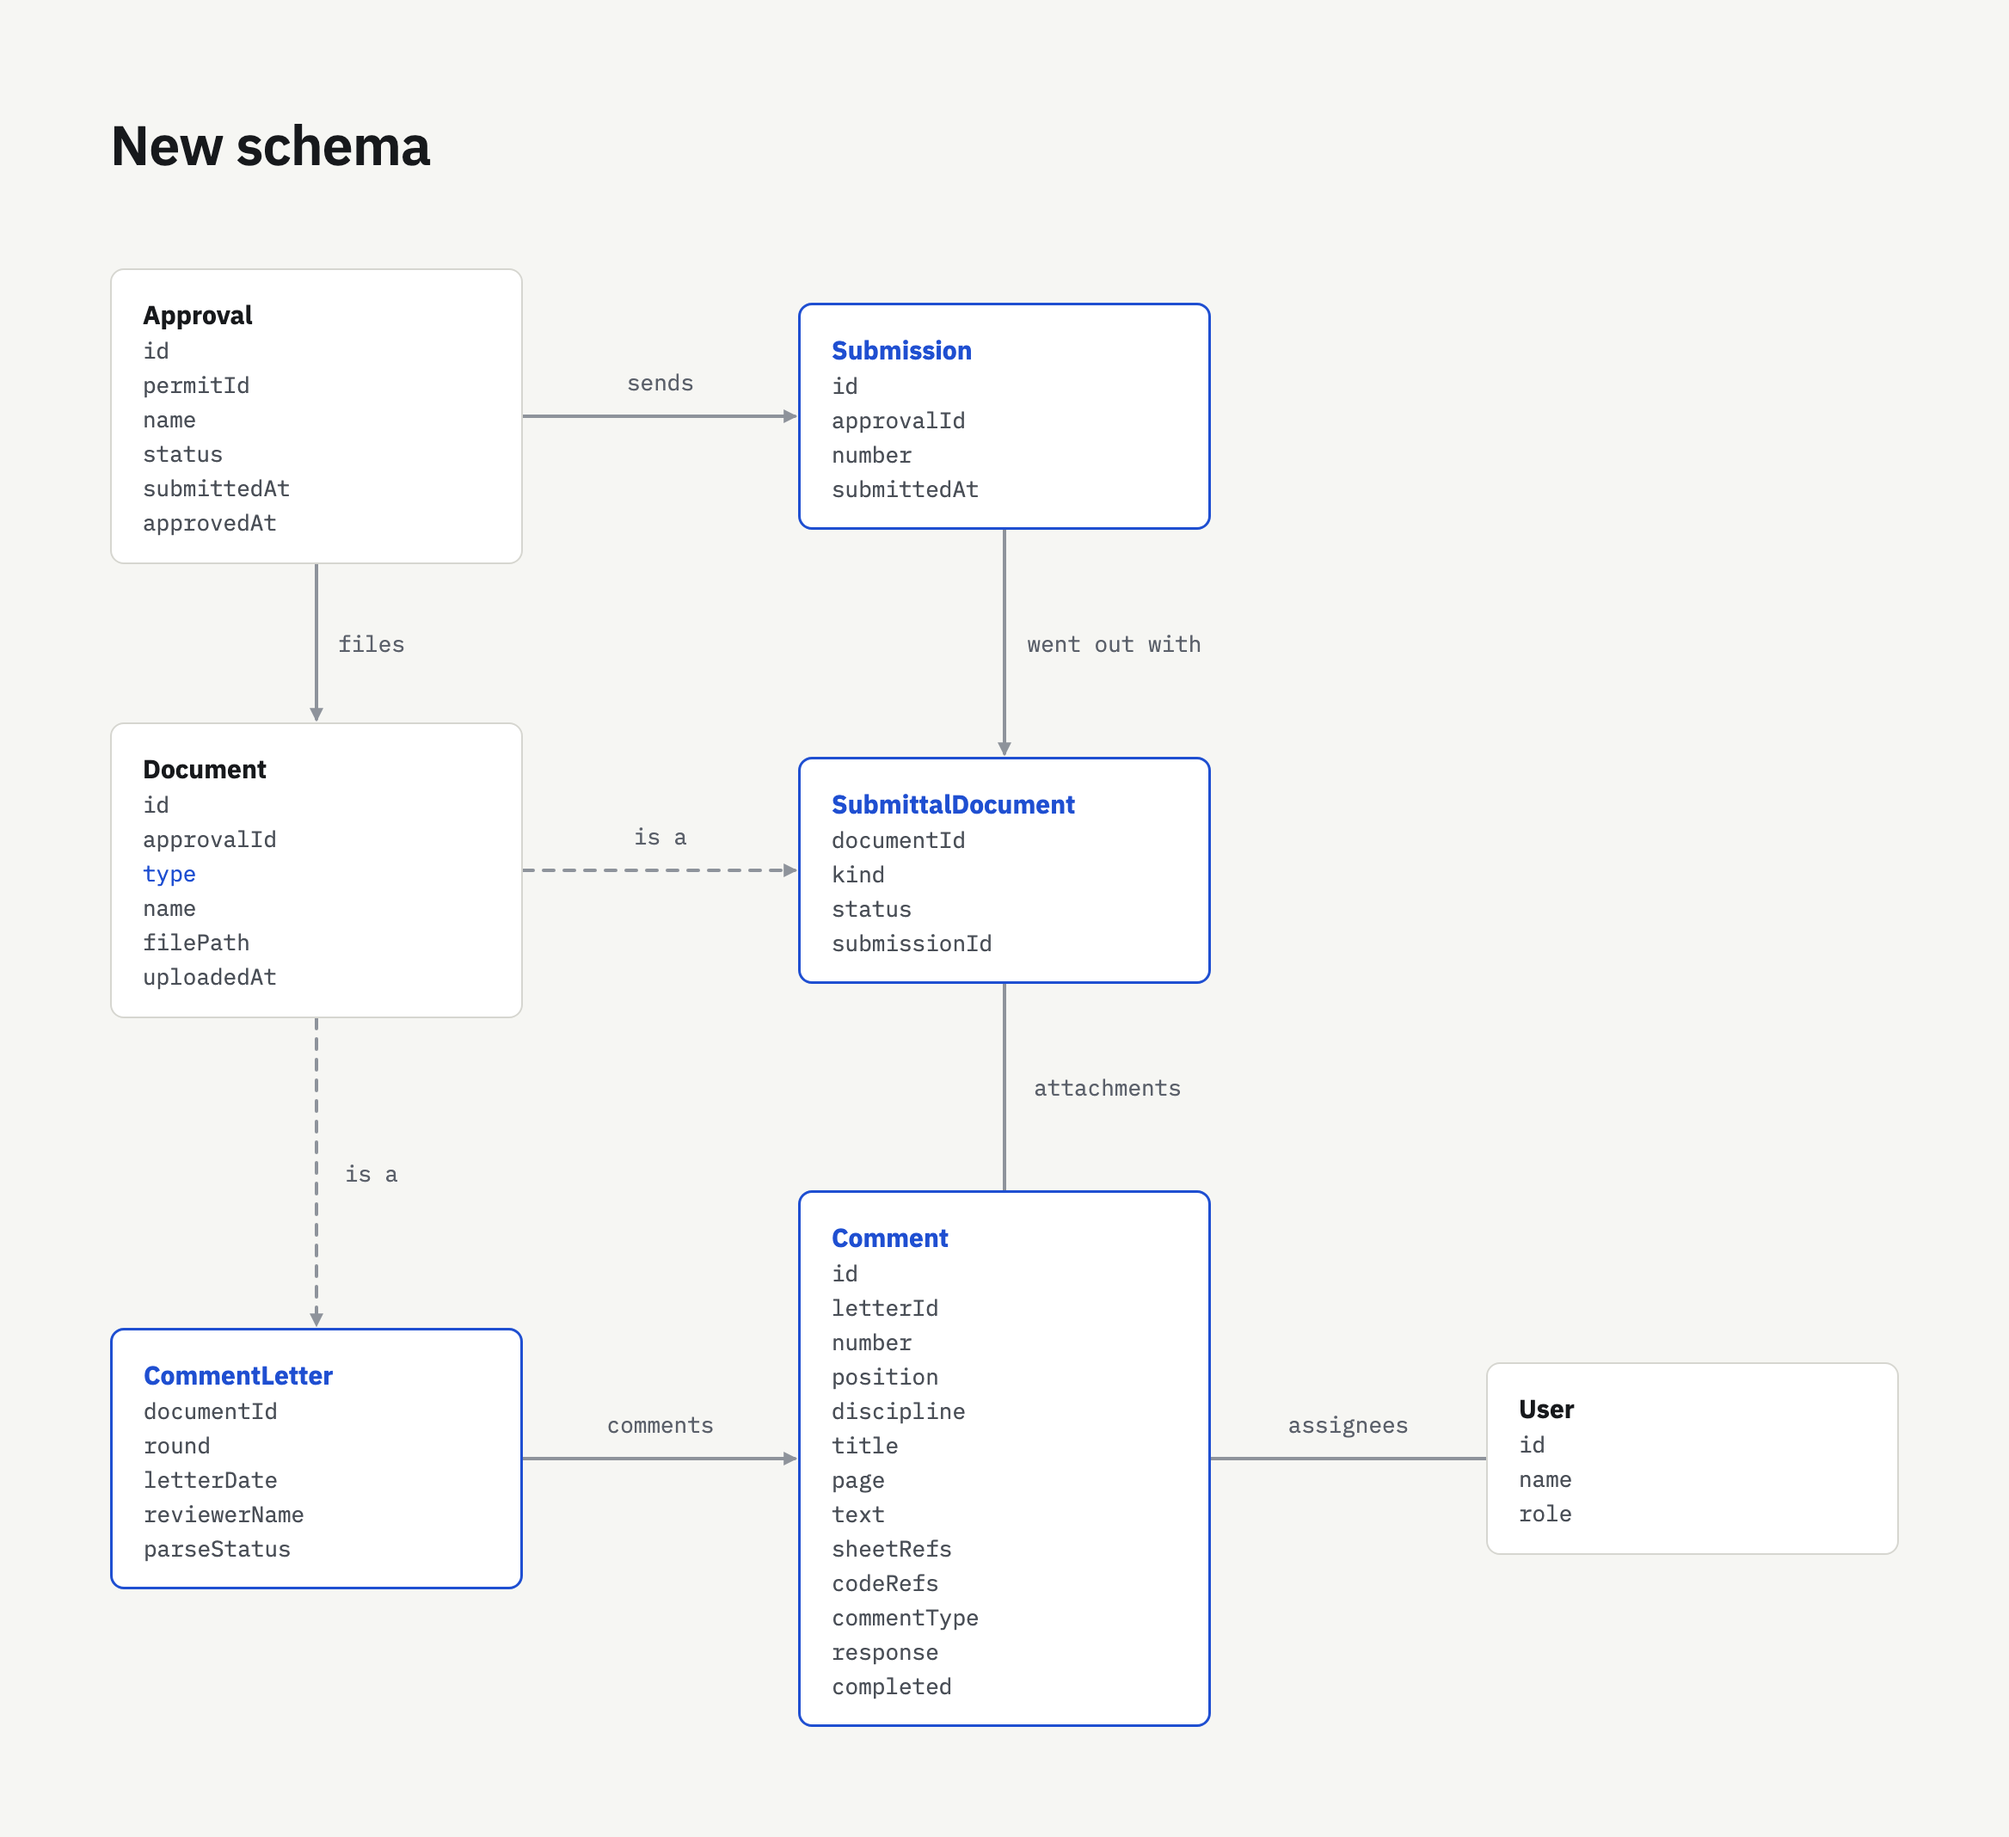
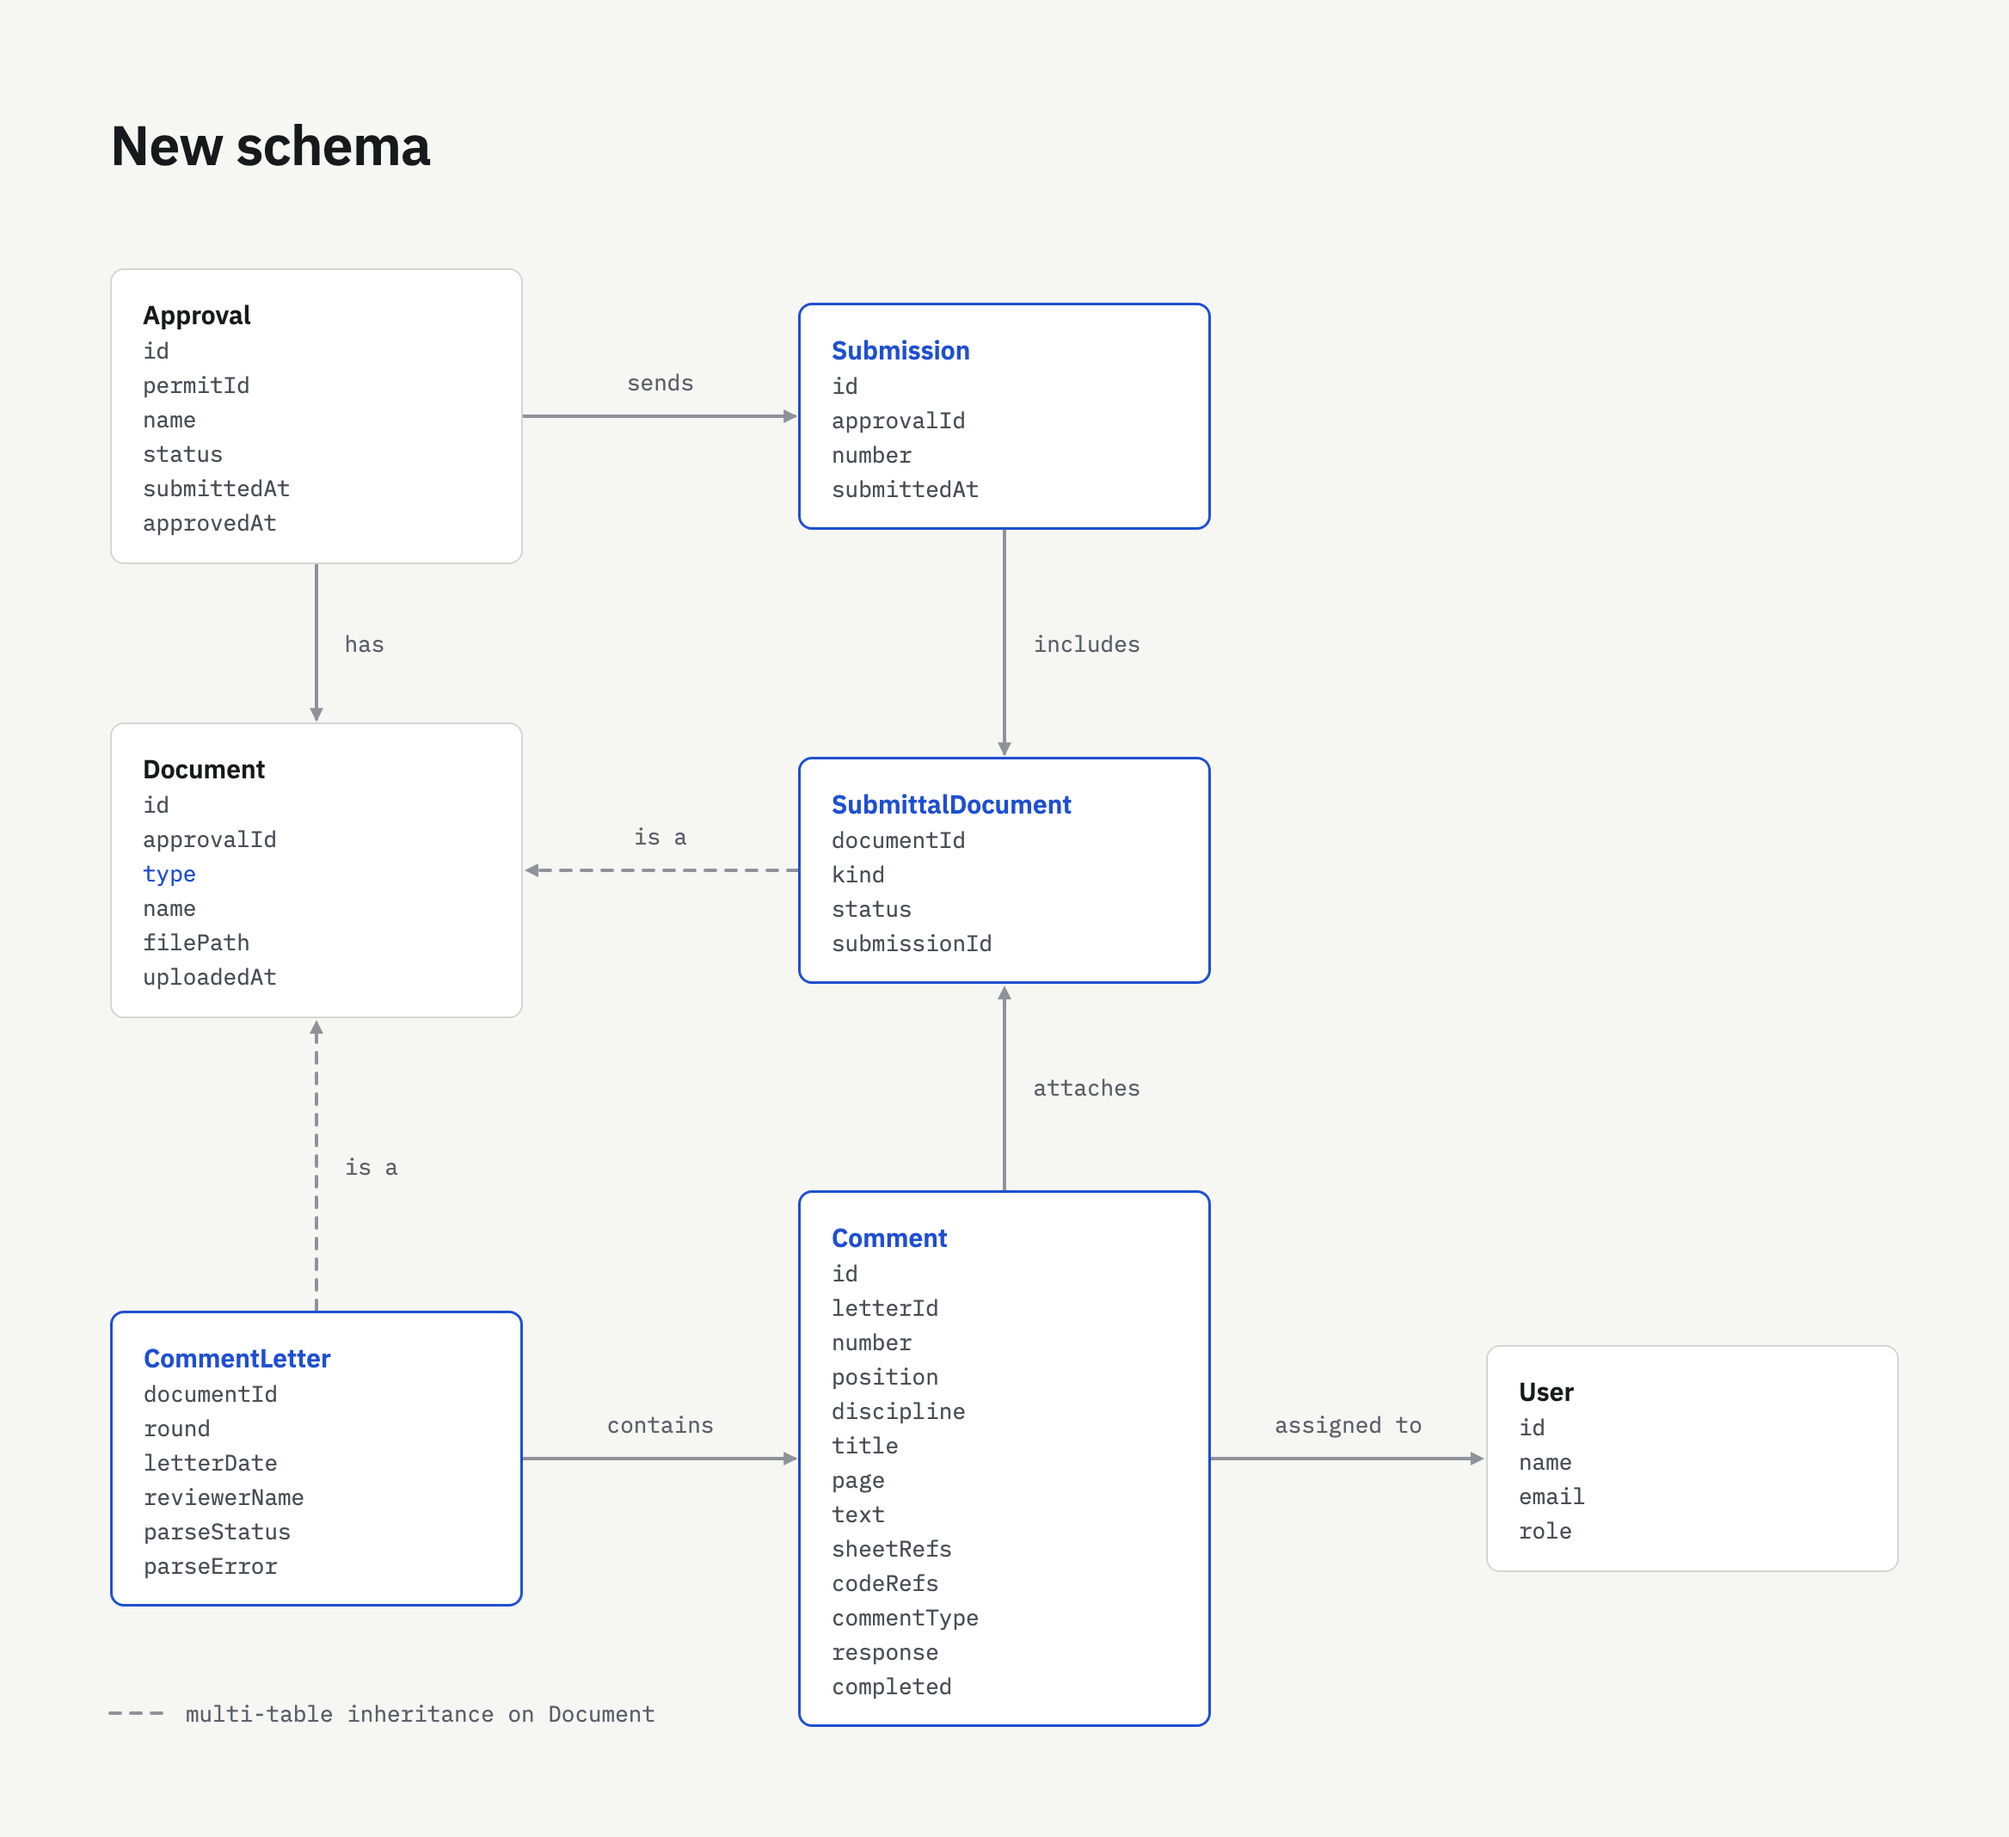
Bug fixes

diff --git a/src/app/api/approvals/[approvalId]/route.ts b/src/app/api/approvals/[approvalId]/route.ts
@@ -2,9 +2,10 @@ import { NextResponse } from "next/server";
 import { ApprovalStatus } from "@prisma/client";
 import { db } from "@/lib/db";
 import { renderResponseLetter } from "@/lib/response-letter";
-import { recordSubmission } from "@/lib/submissions";
+import { findOpenLetter, recordSubmission } from "@/lib/submissions";
 import { saveGeneratedPdf } from "@/lib/storage";
 import { fail } from "@/lib/http";
+import { plural } from "@/lib/format";
 
 // Simplistic status changes: any status can move to any other status.
 export async function PATCH(
@@ -27,15 +28,20 @@ export async function PATCH(
   const responding = submitting && approval.status === "comments";
   const now = new Date();
 
+  // The checklist is the initial package, filled while preparing. Files still
+  // missing from it would never go out with any submission.
+  if (submitting && approval.status === "preparing") {
+    const missing = await db.submittalDocument.count({
+      where: { status: "needed", document: { approvalId: approval.id } },
+    });
+    if (missing > 0) return fail(409, `${plural(missing, "document")} still outstanding`);
+  }
+
   // A response goes out with its letter, generated once more from the final
   // responses and stored as the copy that was sent. Rendering happens before
-  // the transaction so it isn't held open.
-  const letter = responding
-    ? await db.commentLetter.findFirst({
-        where: { document: { approvalId: approval.id } },
-        orderBy: { round: "desc" },
-      })
-    : null;
+  // the transaction so it isn't held open. Only a letter on the latest
+  // submission is still unanswered.
+  const letter = responding ? await findOpenLetter(db, approval.id) : null;
   // Until parsing finishes there's nothing to answer yet.
   if (letter?.parseStatus === "processing") {
     return fail(409, "The comment letter is still being read");
@@ -55,20 +61,18 @@ export async function PATCH(
     }
   }
 
-  let responsePath: string | null = null;
-  if (letter) {
-    const { pdf, fileName } = await renderResponseLetter(letter.documentId, {
-      draft: false,
-      date: now,
-    });
-    responsePath = await saveGeneratedPdf(pdf, fileName, `response-${approval.id}`);
-  }
+  const response = letter
+    ? await renderResponseLetter(letter.documentId, { draft: false, date: now })
+    : null;
+  const responsePath = response
+    ? await saveGeneratedPdf(response.pdf, response.fileName, `response-${approval.id}`)
+    : null;
 
   const updated = await db.$transaction(async (tx) => {
     if (submitting) {
       // Every submission records the package it sends; an answer to comments
-      // also sends the response letter.
-      const submission = await recordSubmission(tx, approval.id, now);
+      // sends the files its letter lists, and the letter itself.
+      const submission = await recordSubmission(tx, approval.id, now, response?.enclosedIds);
       if (responsePath) {
         await tx.document.create({
           data: {

diff --git a/src/lib/submissions.ts b/src/lib/submissions.ts
@@ -1,25 +1,52 @@
 import type { Prisma } from "@prisma/client";
 
-/**
- * Records a package sent to the jurisdiction, holding the files uploaded since
- * the last one: the whole package for the initial submittal, then the files
- * added while answering each set of comments.
- */
-export async function recordSubmission(
+/** The number of the approval's latest submission, or 0 before the initial submittal. */
+export async function latestSubmissionNumber(
   client: Prisma.TransactionClient,
-  approvalId: string,
-  submittedAt: Date
+  approvalId: string
 ) {
   const latest = await client.submission.findFirst({
     where: { approvalId },
     orderBy: { number: "desc" },
     select: { number: true },
   });
+  return latest?.number ?? 0;
+}
+
+/**
+ * The comment letter the team is answering: the jurisdiction's review of the
+ * latest submission. A letter on an earlier one was answered by the submission
+ * after it.
+ */
+export async function findOpenLetter(client: Prisma.TransactionClient, approvalId: string) {
+  const round = await latestSubmissionNumber(client, approvalId);
+  return client.commentLetter.findFirst({ where: { round, document: { approvalId } } });
+}
+
+/**
+ * Records a package sent to the jurisdiction, holding the files uploaded since
+ * the last one: the whole package for the initial submittal, then the files
+ * added while answering each set of comments. `documentIds` narrows it to the
+ * files a response letter lists, so one uploaded after the letter was rendered
+ * waits for the next submission instead of going out unlisted.
+ */
+export async function recordSubmission(
+  client: Prisma.TransactionClient,
+  approvalId: string,
+  submittedAt: Date,
+  documentIds?: string[]
+) {
+  const number = (await latestSubmissionNumber(client, approvalId)) + 1;
   const submission = await client.submission.create({
-    data: { approvalId, number: (latest?.number ?? 0) + 1, submittedAt },
+    data: { approvalId, number, submittedAt },
   });
   await client.submittalDocument.updateMany({
-    where: { submissionId: null, status: "uploaded", document: { approvalId } },
+    where: {
+      submissionId: null,
+      status: "uploaded",
+      document: { approvalId },
+      ...(documentIds && { documentId: { in: documentIds } }),
+    },
     data: { submissionId: submission.id },
   });
   return submission;

diff --git a/src/lib/response-letter.tsx b/src/lib/response-letter.tsx
@@ -44,9 +44,9 @@ async function loadPackage(approvalId: string, round: number) {
       submittal: { kind: "required_upload", status: "uploaded", submissionId },
     },
     orderBy: { name: "asc" },
-    select: { name: true },
+    select: { id: true, name: true },
   });
-  return { submissionId, enclosures: documents.map((document) => document.name) };
+  return { submissionId, enclosures: documents };
 }
 
 // Colors mirror the app's ink tokens (globals.css); PDFs can't read CSS variables.
@@ -242,8 +242,9 @@ function ResponseLetter({
 }
 
 /**
- * Renders the response to a comment letter from what's saved now. Drafts are
- * marked so a downloaded copy can't be mistaken for the one that went out.
+ * Renders the response to a comment letter from what's saved now, with the ids
+ * of the files it lists as enclosed. Drafts are marked so a downloaded copy
+ * can't be mistaken for the one that went out.
  */
 export async function renderResponseLetter(
   letterId: string,
@@ -255,10 +256,14 @@ export async function renderResponseLetter(
     <ResponseLetter
       letter={letter}
       submissionId={submissionId}
-      enclosures={enclosures}
+      enclosures={enclosures.map((document) => document.name)}
       date={date}
       draft={draft}
     />
   );
-  return { pdf, fileName: responseLetterFileName(letter.round) };
+  return {
+    pdf,
+    fileName: responseLetterFileName(letter.round),
+    enclosedIds: enclosures.map((document) => document.id),
+  };
 }

diff --git a/src/app/api/approvals/[approvalId]/comment-letters/route.ts b/src/app/api/approvals/[approvalId]/comment-letters/route.ts
@@ -27,13 +27,22 @@ export async function POST(
 
   const filePath = await saveUpload(file, `letter-${approval.id}`);
   const document = await db.$transaction(async (tx) => {
+    // Moving to comments first claims the approval: a second letter uploaded at
+    // the same time waits on this row, then finds it moved and isn't recorded
+    // as another letter for the same round.
+    const { count } = await tx.approval.updateMany({
+      where: { id: approval.id, status: "submitted" },
+      data: { status: "comments" },
+    });
+    if (count === 0) return null;
+
     // The letter is the jurisdiction's review of the latest submission, so its
     // round is that submission's number.
     const { number: round } = await tx.submission.findFirstOrThrow({
       where: { approvalId: approval.id },
       orderBy: { number: "desc" },
     });
-    const document = await tx.document.create({
+    return tx.document.create({
       data: {
         approvalId: approval.id,
         type: "comment_letter",
@@ -43,12 +52,10 @@ export async function POST(
         commentLetter: { create: { round } },
       },
     });
-    await tx.approval.update({
-      where: { id: approval.id },
-      data: { status: "comments" },
-    });
-    return document;
   });
+  if (!document) {
+    return fail(409, "Comment letters can only be added while the approval is submitted");
+  }
 
   after(() => parseCommentLetter(document.id));
 

diff --git a/src/lib/comments.ts b/src/lib/comments.ts
@@ -1,10 +1,11 @@
 import { CommentType } from "@prisma/client";
 import { db } from "@/lib/db";
 import { fail } from "@/lib/http";
+import { findOpenLetter } from "@/lib/submissions";
 
 /**
  * Loads a comment letter with its approval. Its comments are editable only
- * while it is the approval's current letter and the team is responding.
+ * while the team is responding and it is the letter being answered.
  */
 export async function findLetter(letterId: string) {
   const letter = await db.commentLetter.findUnique({
@@ -14,13 +15,8 @@ export async function findLetter(letterId: string) {
   if (!letter) return null;
 
   const approval = letter.document.approval;
-  const latest = await db.commentLetter.findFirst({
-    where: { document: { approvalId: approval.id } },
-    orderBy: { round: "desc" },
-    select: { documentId: true },
-  });
-  const editable =
-    approval.status === "comments" && latest?.documentId === letter.documentId;
+  const open = approval.status === "comments" ? await findOpenLetter(db, approval.id) : null;
+  const editable = open?.documentId === letter.documentId;
 
   return { letter, approval, editable };
 }
